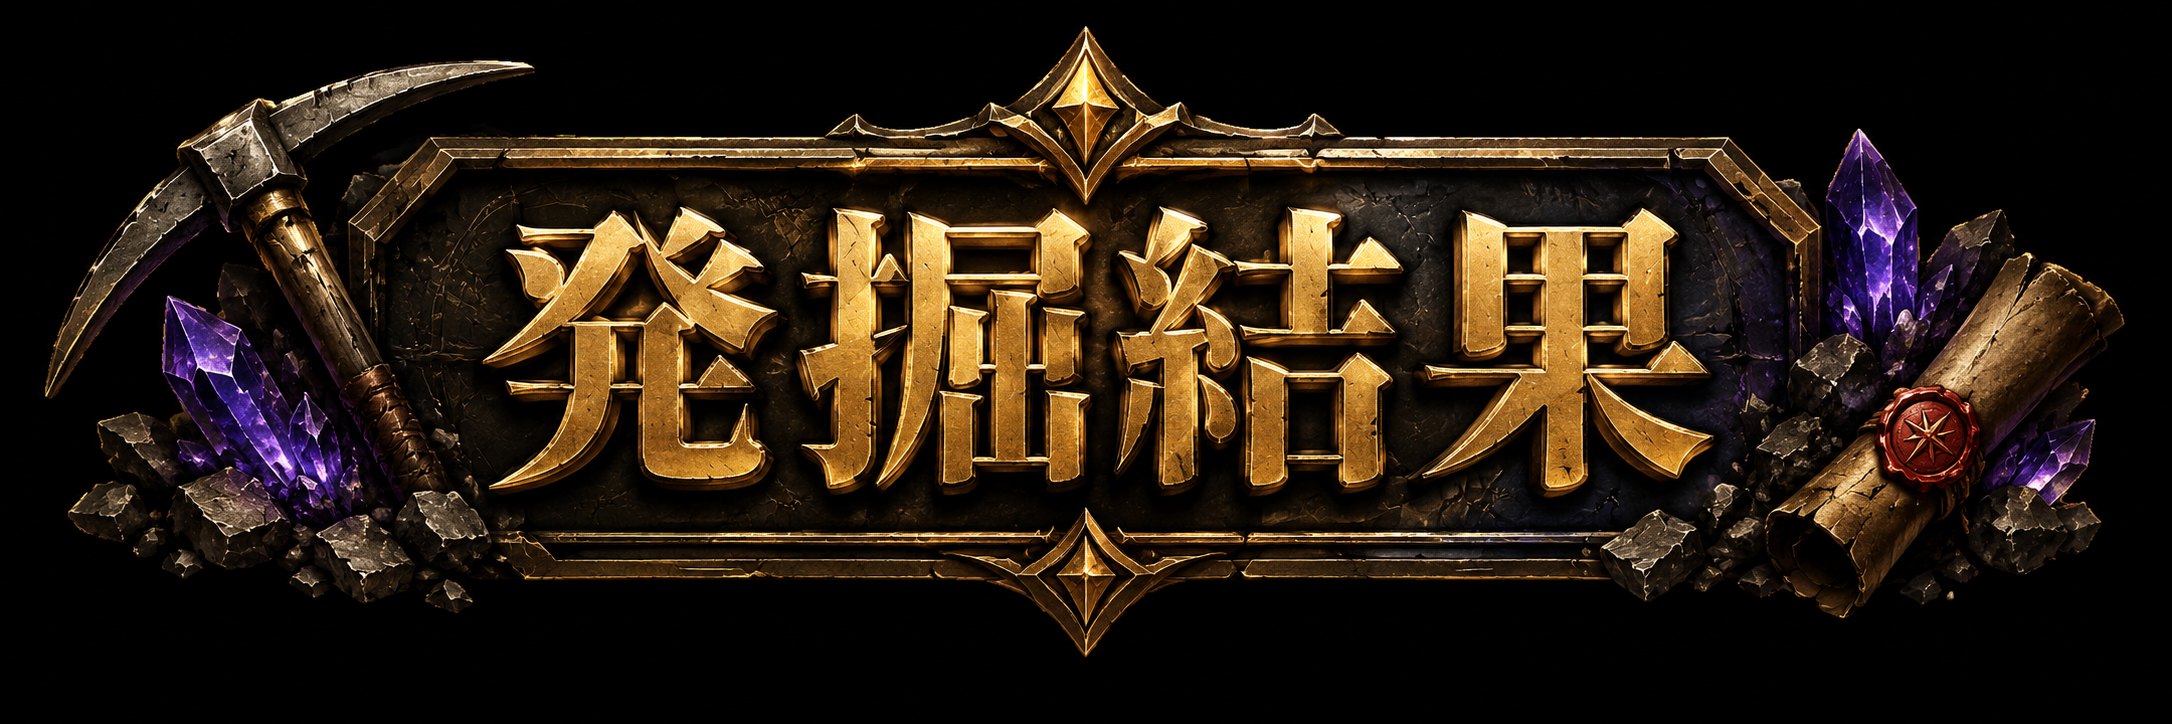
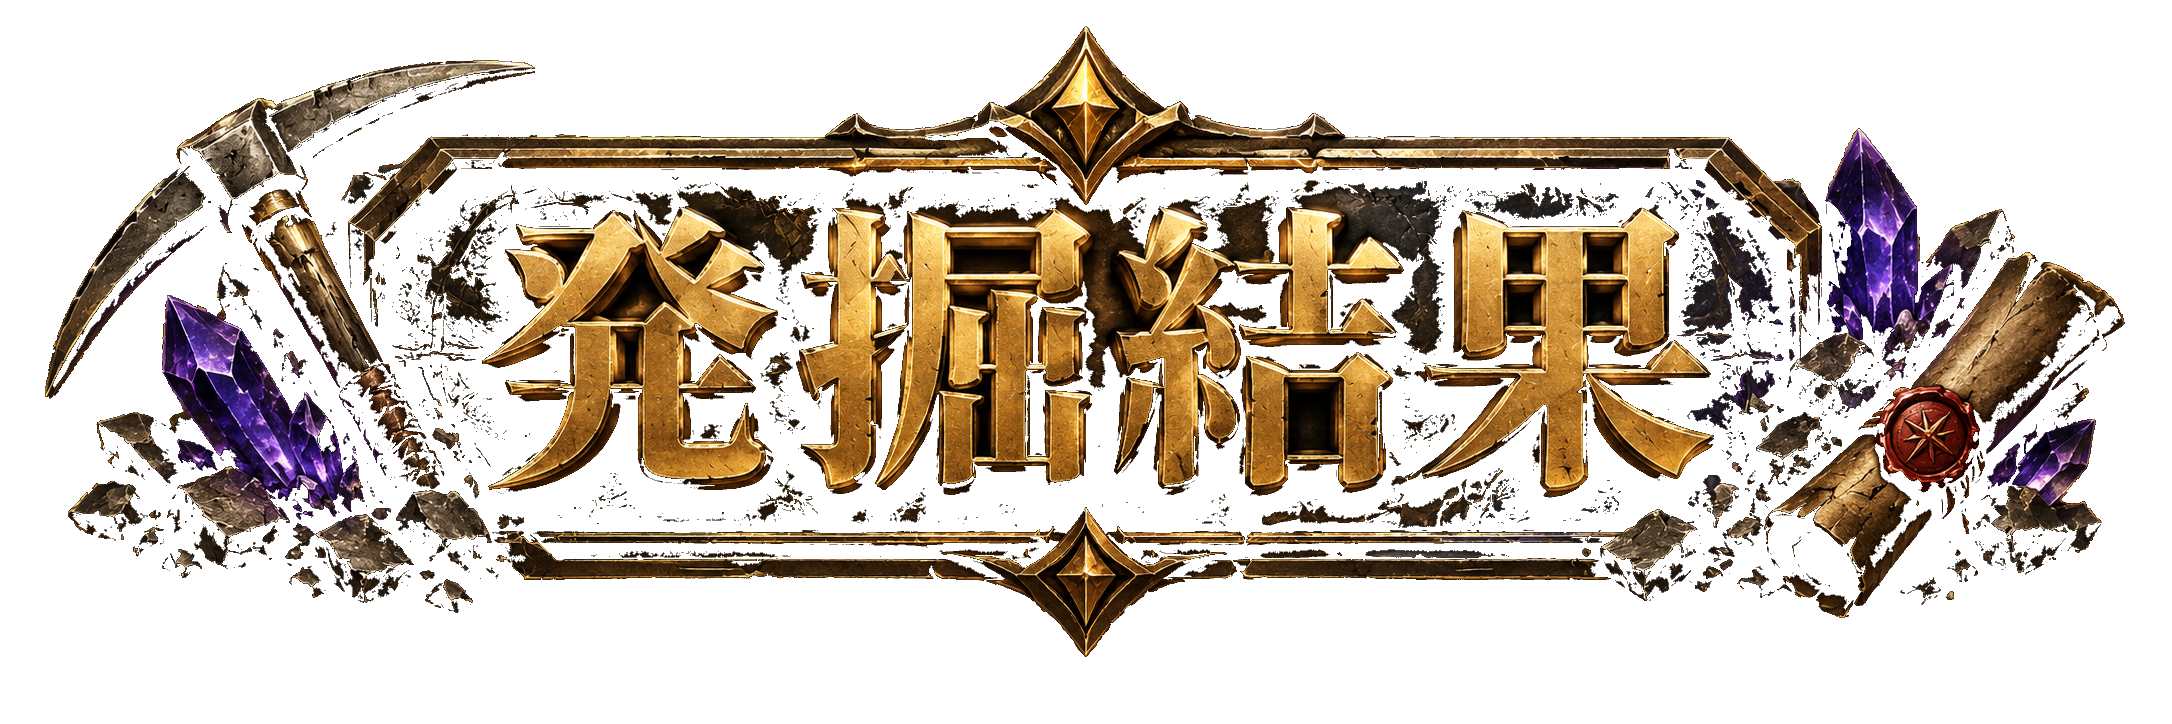
fix(ui): 発掘結果のタイトル非表示とバナー透過
結果画面上部の「発掘結果」を消し、結果バナー周りの黒マットを透過にした。

diff --git a/docs/project/CurrentState.md b/docs/project/CurrentState.md
@@ -4,6 +4,7 @@
 
 ## Last Update
 
+2026-09-05（**発掘結果UI**: 上部タイトル非表示。結果バナー黒マット透過。要実機）
 2026-09-05（**発掘戦闘カットイン**: TAP→スキルカットイン→ダメEF。ヘッダ／上スキル名撤去。キャラ下へ。入口点滅。？上／所持石微下。要実機）
 2026-09-05（**発掘選択UI位置**: ？右上／所持石上／ランキング下。要実機）
 2026-09-05（**発掘ランキング**: 結果バナー適用。ダメージ履歴ランキング画面。選択／結果から遷移。入口さらに左。要実機）
